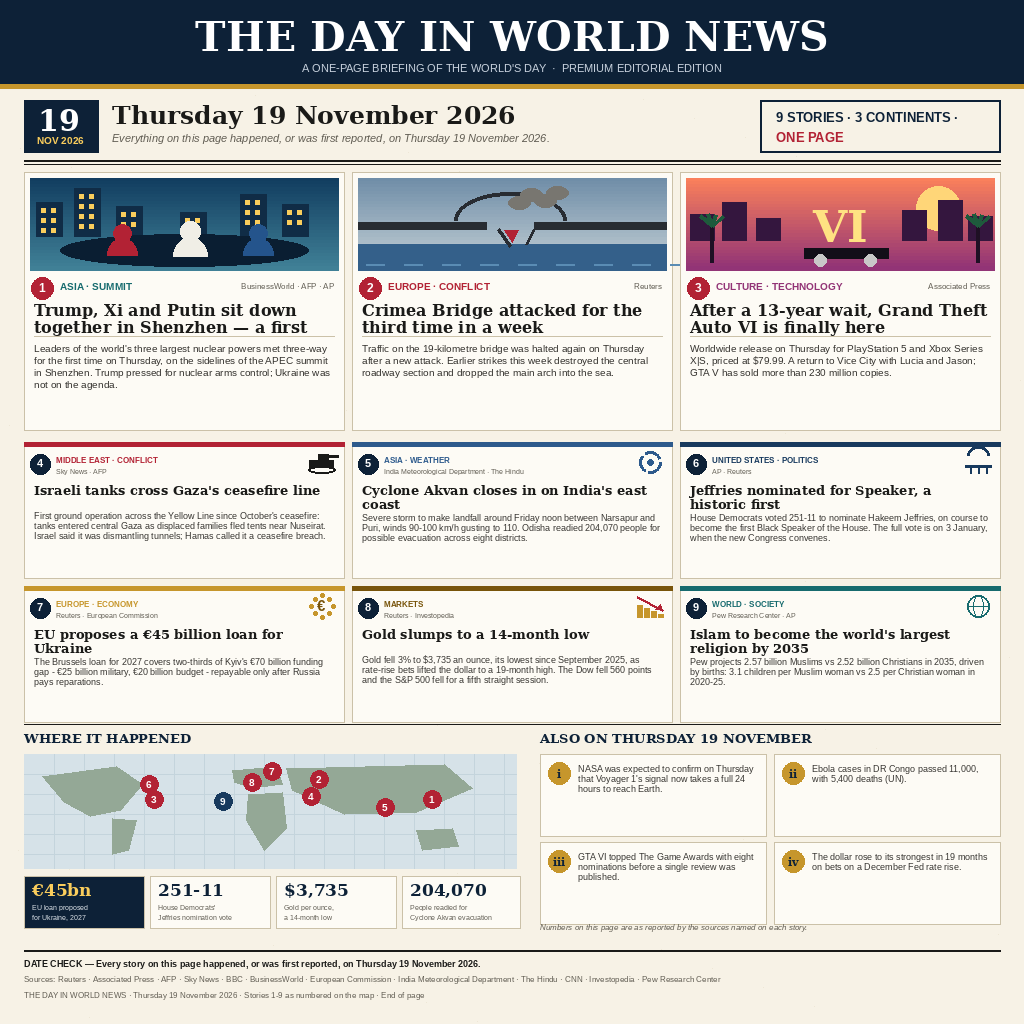
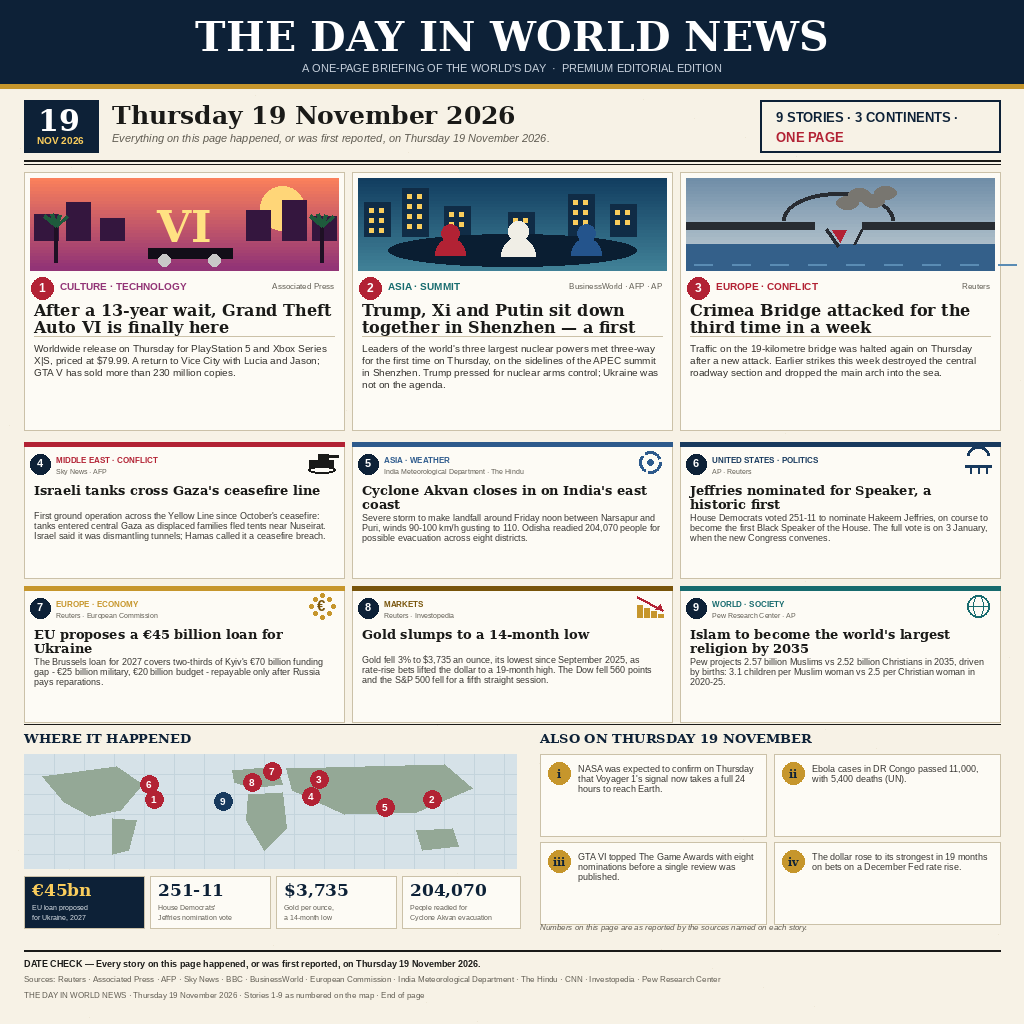
Lead story: GTA VI as story 1; Shenzhen 2, Crimea Bridge 3 (map markers renumbered)

Changed region(s): [[0.0312, 0.1562, 0.9688, 0.375]]

diff --git a/build_image.py b/build_image.py
@@ -150,24 +150,24 @@ def scene_gta(draw, box):
     draw.ellipse([x0 + 178, y1 - 16, x0 + 190, y1 - 4], fill=(200, 200, 200))
 
 
-SCENES = {1: scene_summit, 2: scene_bridge, 3: scene_gta}
+SCENES = {1: scene_gta, 2: scene_summit, 3: scene_bridge}
 
 FEATURES = [
-    dict(num=1, cat="ASIA · SUMMIT", src="BusinessWorld · AFP · AP", color=TEAL,
-         head="Trump, Xi and Putin sit down together in Shenzhen — a first",
-         body="Leaders of the world's three largest nuclear powers met three-way for the "
-              "first time on Thursday, on the sidelines of the APEC summit in Shenzhen. "
-              "Trump pressed for nuclear arms control; Ukraine was not on the agenda."),
-    dict(num=2, cat="EUROPE · CONFLICT", src="Reuters", color=RED,
-         head="Crimea Bridge attacked for the third time in a week",
-         body="Traffic on the 19-kilometre bridge was halted again on Thursday after a "
-              "new attack. Earlier strikes this week destroyed the central roadway "
-              "section and dropped the main arch into the sea."),
-    dict(num=3, cat="CULTURE · TECHNOLOGY", src="Associated Press", color=(146, 52, 118),
+    dict(num=1, cat="CULTURE · TECHNOLOGY", src="Associated Press", color=(146, 52, 118),
          head="After a 13-year wait, Grand Theft Auto VI is finally here",
          body="Worldwide release on Thursday for PlayStation 5 and Xbox Series X|S, "
               "priced at $79.99. A return to Vice City with Lucia and Jason; GTA V has "
               "sold more than 230 million copies."),
+    dict(num=2, cat="ASIA · SUMMIT", src="BusinessWorld · AFP · AP", color=TEAL,
+         head="Trump, Xi and Putin sit down together in Shenzhen — a first",
+         body="Leaders of the world's three largest nuclear powers met three-way for the "
+              "first time on Thursday, on the sidelines of the APEC summit in Shenzhen. "
+              "Trump pressed for nuclear arms control; Ukraine was not on the agenda."),
+    dict(num=3, cat="EUROPE · CONFLICT", src="Reuters", color=RED,
+         head="Crimea Bridge attacked for the third time in a week",
+         body="Traffic on the 19-kilometre bridge was halted again on Thursday after a "
+              "new attack. Earlier strikes this week destroyed the central roadway "
+              "section and dropped the main arch into the sea."),
 ]
 
 GRID = [
@@ -280,7 +280,7 @@ def draw_map(draw, box):
                   (x0 + 392, y0 + 58), (x0 + 320, y0 + 60), (x0 + 268, y0 + 36)], fill=land)  # Asia
     draw.polygon([(x0 + 392, y0 + 76), (x0 + 428, y0 + 74), (x0 + 434, y0 + 92),
                   (x0 + 398, y0 + 96)], fill=land)  # Australia
-    markers = {1: (0.83, 0.40), 2: (0.60, 0.22), 3: (0.265, 0.40), 4: (0.585, 0.37),
+    markers = {1: (0.265, 0.40), 2: (0.83, 0.40), 3: (0.60, 0.22), 4: (0.585, 0.37),
                5: (0.735, 0.47), 6: (0.255, 0.27), 7: (0.505, 0.155), 8: (0.465, 0.25),
                9: (0.405, 0.42)}
     mw, mh = x1 - x0, y1 - y0

diff --git a/README.md b/README.md
@@ -4,7 +4,7 @@
 [![rank](https://make.fun/badge/news-image-20261119/RanggaMurphy/world-news-19nov/rank.svg)](https://make.fun/bounty/news-image-20261119/leaderboard?utm_source=github&utm_medium=readme&utm_campaign=news-image-20261119)
 [![reward](https://make.fun/badge/news-image-20261119/RanggaMurphy/world-news-19nov/reward.svg)](https://make.fun/bounty/news-image-20261119?utm_source=github&utm_medium=readme&utm_campaign=news-image-20261119)
 
-A one-page editorial infographic, "THE DAY IN WORLD NEWS", summing up Thursday 19 November 2026 in one 1024x1024 image: three feature stories (Shenzhen summit, Crimea Bridge, GTA VI), six further world stories, a numbered world map, the day's four headline numbers, and an "Also on Thursday 19 November" box. All stories and numbers come from the verified list in SOURCES.md. The image is entry.png; build_image.py redraws it deterministically, and main.py copies it to the output.
+A one-page editorial infographic, "THE DAY IN WORLD NEWS", summing up Thursday 19 November 2026 in one 1024x1024 image: three feature stories (GTA VI, Shenzhen summit, Crimea Bridge), six further world stories, a numbered world map, the day's four headline numbers, and an "Also on Thursday 19 November" box. All stories and numbers come from the verified list in SOURCES.md. The image is entry.png; build_image.py redraws it deterministically, and main.py copies it to the output.
 
 ## Run it
 

diff --git a/SOURCES.md b/SOURCES.md
@@ -4,9 +4,9 @@ Every story on the page was supplied as a verified item for this
 entry, each confirmed by at least two outlets before it was used.
 Nothing on the page comes from any other day or any other list.
 
-1. Asia / Summit — BusinessWorld, AFP, AP: Trump, Xi and Putin in Shenzhen.
-2. Europe / Conflict — Reuters: Crimea Bridge attacked a third time in a week.
-3. Culture / Technology — Associated Press: Grand Theft Auto VI release.
+1. Culture / Technology — Associated Press: Grand Theft Auto VI release (lead story).
+2. Asia / Summit — BusinessWorld, AFP, AP: Trump, Xi and Putin in Shenzhen.
+3. Europe / Conflict — Reuters: Crimea Bridge attacked a third time in a week.
 4. Middle East / Conflict — Sky News, AFP: Israeli tanks cross the Yellow Line.
 5. Asia / Weather — India Meteorological Department, The Hindu: Cyclone Akvan.
 6. United States / Politics — AP, Reuters: Jeffries nominated for Speaker.
